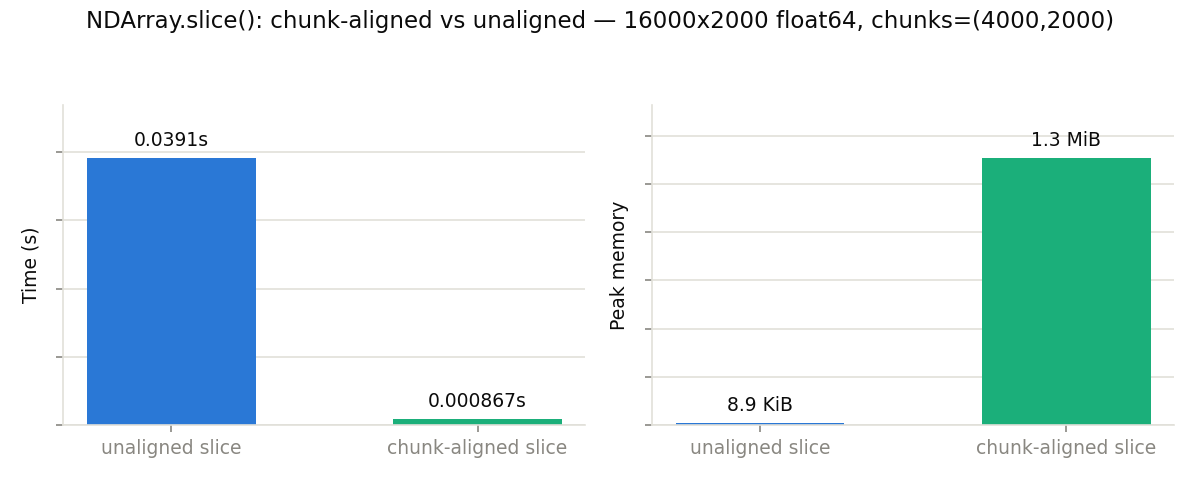
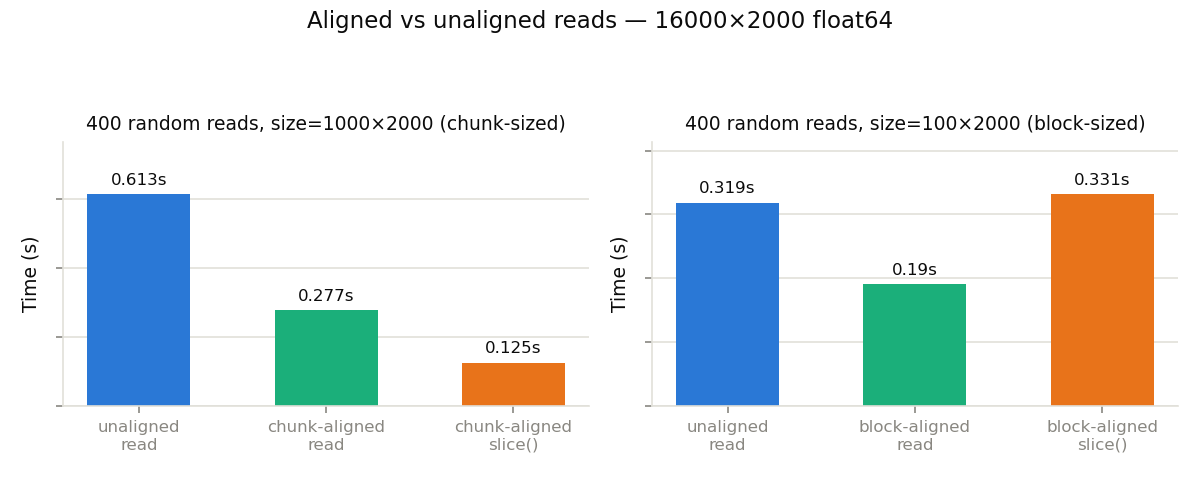
Improve "Align your reads with the double partition" tip
- Rewrite benchmark to show 3 bars per panel: unaligned read, aligned read,
     and slice() — both at chunk and block level
   - Plot titles now include read count and slice size
   - Restructure docs with clear subsection headings, reorder for flow,
     and explain why slice() fast path only works at chunk boundaries

Changed region(s): [[0.0308, 0.2188, 0.9867, 0.9688], [0.0617, 0.0, 0.925, 0.0625], [0.0, 0.4688, 0.0308, 0.6562]]

diff --git a/bench/optim_tips/tip_02_chunk_aligned_slicing.py b/bench/optim_tips/tip_02_chunk_aligned_slicing.py
@@ -5,51 +5,175 @@
 # SPDX-License-Identifier: BSD-3-Clause
 #######################################################################
 
-# Tip 2: NDArray.slice() has a fast path when the slice boundaries land
-# exactly on chunk boundaries — whole chunks are copied without
-# decompressing/recompressing. An off-by-a-few-rows slice falls back to the
-# general (decompress + recompress) path.
+# Tip 2: blosc2's double partition (chunks, subdivided into blocks) rewards
+# aligned reads at both levels:
+#   * A read aligned with the chunk grid decompresses exactly one chunk,
+#     while the same-sized read shifted off-grid straddles two chunks.
+#     An NDArray.slice() aligned with chunk boundaries goes further: it
+#     copies whole chunks as-is, with no decompression at all.
+#   * At the block level, a read aligned with the block grid decompresses
+#     exactly one block.  With auto (cache-sized, small) blocks this is
+#     drowned by per-call overhead, so it is demonstrated on an array with
+#     explicitly larger blocks.  An NDArray.slice() at block granularity
+#     cannot be chunk-aligned on both ends, so it still pays the
+#     decompress/recompress cost.
+#
+# Each panel shows three bars: unaligned read, aligned read, and
+# NDArray.slice() — all the same slice size.
 
+import matplotlib.pyplot as plt
 import numpy as np
 
 import blosc2
-from common import fmt_bytes, measure, save_plot
+from common import COLOR_NAIVE, COLOR_TIP, GRID, INK, MUTED, OUT_DIR, measure
 
 ROWS, COLS = 16_000, 2_000
-CHUNK_ROWS = 4_000  # 4 chunks along axis 0
+K_READS = 400
+BIG_BLOCK_ROWS = 100  # explicit larger blocks for the block panel (1.6 MB each)
 
-# Representative (compressible) data, not incompressible random noise -- blosc2
-# arrays are typically built from data with real structure.
+# Representative (compressible) data, not incompressible random noise.
 _base = np.arange(COLS, dtype=np.float64)
 _data = np.tile(_base, (ROWS, 1)) + np.arange(ROWS, dtype=np.float64)[:, None] * 0.001
-arr = blosc2.asarray(_data, chunks=(CHUNK_ROWS, COLS))
+
+# Panel 1 array: let blosc2 choose the partitions.
+arr = blosc2.asarray(_data)
+CHUNK_ROWS = arr.chunks[0]
+
+# Panel 2 array: explicitly larger blocks so alignment pays off.
+arr_big = blosc2.asarray(_data, chunks=(4 * CHUNK_ROWS, COLS), blocks=(BIG_BLOCK_ROWS, COLS))
+BLOCK_ROWS = arr_big.blocks[0]
+BIG_CHUNK_ROWS = arr_big.chunks[0]  # 4000
+
+# Random start positions — aligned to the respective grid.
+_rng = np.random.default_rng(1)
+_chunk_starts = _rng.integers(0, ROWS // CHUNK_ROWS - 2, size=K_READS) * CHUNK_ROWS
+_block_starts = _rng.integers(0, ROWS // BLOCK_ROWS - 2, size=K_READS) * BLOCK_ROWS
 
 
-def unaligned():
-    # starts 500 rows past a chunk boundary -> general path
-    return arr.slice((slice(500, 500 + 3 * CHUNK_ROWS), slice(None)))
+def read_chunk_unaligned():
+    """Chunk-sized reads shifted half a chunk off the grid."""
+    for s in _chunk_starts:
+        arr[s + CHUNK_ROWS // 2 : s + CHUNK_ROWS // 2 + CHUNK_ROWS]
 
 
-def aligned():
-    # starts and ends exactly on chunk boundaries -> fast path
-    return arr.slice((slice(CHUNK_ROWS, 4 * CHUNK_ROWS), slice(None)))
+def read_chunk_aligned():
+    """Chunk-sized reads starting on chunk boundaries."""
+    for s in _chunk_starts:
+        arr[s : s + CHUNK_ROWS]
+
+
+def slice_chunk_aligned():
+    """Chunk-sized slice() on chunk boundaries → fast path (no decompress)."""
+    for s in _chunk_starts:
+        arr.slice((slice(s, s + CHUNK_ROWS), slice(None)))
+
+
+def read_block_unaligned():
+    """Block-sized reads shifted half a block off the grid."""
+    for s in _block_starts:
+        arr_big[s + BLOCK_ROWS // 2 : s + BLOCK_ROWS // 2 + BLOCK_ROWS]
+
+
+def read_block_aligned():
+    """Block-sized reads starting on block boundaries."""
+    for s in _block_starts:
+        arr_big[s : s + BLOCK_ROWS]
+
+
+def slice_block_aligned():
+    """Block-sized slice() on block boundaries → general path (decompress+recompress).
+
+    The fast path requires *chunk* alignment; at block granularity (100 rows)
+    with chunk size 4000, both boundaries cannot be chunk-aligned, so every
+    slice() call decompresses and recompresses the containing chunk(s).
+    """
+    for s in _block_starts:
+        arr_big.slice((slice(s, s + BLOCK_ROWS), slice(None)))
 
 
 if __name__ == "__main__":
-    naive_t, naive_m = measure(__file__, "unaligned")
-    tip_t, tip_m = measure(__file__, "aligned")
+    print(f"auto partitions: chunks={arr.chunks}, blocks={arr.blocks}")
+    print(f"read-panel array: chunks={arr_big.chunks}, blocks={arr_big.blocks} (explicit)")
 
-    print(f"naive  unaligned slice: {naive_t:.3f}s  peak {fmt_bytes(naive_m)}")
-    print(f"tip    aligned slice  : {tip_t:.3f}s  peak {fmt_bytes(tip_m)}")
-    print(f"speedup: {naive_t / tip_t:.1f}x   (this tip is about speed; memory use is comparable)")
+    chunk_unaligned_t, _ = measure(__file__, "read_chunk_unaligned")
+    chunk_aligned_t, _ = measure(__file__, "read_chunk_aligned")
+    chunk_slice_t, _ = measure(__file__, "slice_chunk_aligned")
+    block_unaligned_t, _ = measure(__file__, "read_block_unaligned")
+    block_aligned_t, _ = measure(__file__, "read_block_aligned")
+    block_slice_t, _ = measure(__file__, "slice_block_aligned")
 
-    save_plot(
-        "tip_02_chunk_aligned_slicing.png",
-        f"NDArray.slice(): chunk-aligned vs unaligned — {ROWS}x{COLS} float64, chunks=({CHUNK_ROWS},{COLS})",
-        "unaligned slice",
-        "chunk-aligned slice",
-        naive_t,
-        tip_t,
-        naive_m,
-        tip_m,
+    print(f"{K_READS} chunk-sized reads, unaligned: {chunk_unaligned_t:.4f}s")
+    print(
+        f"{K_READS} chunk-sized reads, aligned  : {chunk_aligned_t:.4f}s"
+        f"   ({chunk_unaligned_t / chunk_aligned_t:.1f}x faster)"
     )
+    print(
+        f"{K_READS} chunk-sized slice, aligned : {chunk_slice_t:.4f}s"
+        f"   ({chunk_unaligned_t / chunk_slice_t:.1f}x faster than unaligned read)"
+    )
+    print(f"{K_READS} block-sized reads, unaligned: {block_unaligned_t:.4f}s")
+    print(
+        f"{K_READS} block-sized reads, aligned  : {block_aligned_t:.4f}s"
+        f"   ({block_unaligned_t / block_aligned_t:.1f}x faster)"
+    )
+    print(
+        f"{K_READS} block-sized slice, aligned : {block_slice_t:.4f}s"
+        f"   ({block_unaligned_t / block_slice_t:.1f}x vs unaligned read)"
+    )
+
+    COLOR_SLICE = "#e8731a"
+
+    fig, (ax_c, ax_b) = plt.subplots(1, 2, figsize=(8, 3.2))
+    fig.suptitle(
+        f"Aligned vs unaligned reads — {ROWS}×{COLS} float64",
+        fontsize=11,
+        color=INK,
+    )
+
+    chunk_sz = f"{CHUNK_ROWS}×{COLS}"
+    block_sz = f"{BLOCK_ROWS}×{COLS}"
+
+    panels = (
+        (
+            ax_c,
+            f"{K_READS} random reads, size={chunk_sz} (chunk-sized)",
+            ("unaligned\nread", "chunk-aligned\nread", "chunk-aligned\nslice()"),
+            (COLOR_NAIVE, COLOR_TIP, COLOR_SLICE),
+            (chunk_unaligned_t, chunk_aligned_t, chunk_slice_t),
+        ),
+        (
+            ax_b,
+            f"{K_READS} random reads, size={block_sz} (block-sized)",
+            ("unaligned\nread", "block-aligned\nread", "block-aligned\nslice()"),
+            (COLOR_NAIVE, COLOR_TIP, COLOR_SLICE),
+            (block_unaligned_t, block_aligned_t, block_slice_t),
+        ),
+    )
+
+    for ax, title, labels, colors, values in panels:
+        bars = ax.bar(labels, values, color=colors, width=0.55)
+        ax.set_title(title, fontsize=9, color=INK)
+        ax.set_ylabel("Time (s)", color=INK, fontsize=9)
+        ax.spines[["top", "right"]].set_visible(False)
+        ax.spines[["left", "bottom"]].set_color(GRID)
+        ax.tick_params(colors=MUTED, labelsize=8)
+        ax.set_yticklabels([])
+        ax.yaxis.grid(True, color=GRID, linewidth=0.8)
+        ax.set_axisbelow(True)
+        top = max(values)
+        ax.set_ylim(0, top * 1.25)
+        for bar, v in zip(bars, values, strict=True):
+            ax.text(
+                bar.get_x() + bar.get_width() / 2,
+                bar.get_height() + top * 0.03,
+                f"{v:.3g}s",
+                ha="center",
+                va="bottom",
+                fontsize=8,
+                color=INK,
+            )
+
+    fig.tight_layout(rect=[0, 0, 1, 0.90])
+    out_path = OUT_DIR / "tip_02_chunk_aligned_slicing.png"
+    fig.savefig(out_path, dpi=150)
+    print(f"plot saved to {out_path}")

diff --git a/doc/guides/optimization_tips.md b/doc/guides/optimization_tips.md
@@ -23,25 +23,53 @@ At 200M float64 elements, the two are comparable in speed, but the real win is m
 
 *Benchmark for this tip: [`tip_01_constructors.py`](https://github.com/Blosc/python-blosc2/blob/main/bench/optim_tips/tip_01_constructors.py)*
 
-## Align slices with the chunk grid
+## Align your reads with the double partition
 
-`NDArray.slice()` has a fast path when a slice's boundaries land exactly on chunk boundaries: whole chunks are copied as-is, with no decompress/recompress. A slice that starts or ends mid-chunk falls back to the general path.
+blosc2 arrays are partitioned twice: the array is split into **chunks** (the unit of storage and compression), and each chunk is subdivided into **blocks** (the unit of decompression, sized to fit CPU caches). A read that lands exactly on a partition boundary decompresses only the chunk or block it needs, while the same-sized read shifted off-grid straddles (and decompresses) extra ones.
+
+You don't have to pick the partitions yourself: let blosc2 choose them, then read them back from `arr.chunks` and `arr.blocks` to place your slice boundaries.
+
+### At the chunk level
+
+`NDArray.slice()` has a fast path when *both* boundaries land on chunk boundaries: whole chunks are copied as-is, compressed, with no decompression at all. Regular reads also benefit — an aligned chunk-sized read decompresses one chunk instead of two.
 
 ```python
-arr = blosc2.asarray(data, chunks=(4000, 2000))
+arr = blosc2.asarray(data)  # let blosc2 pick the partitions
+ch = arr.chunks[0]  # e.g. 1000 for a 16000×2000 float64 array
 
-# Avoid: mid-chunk boundaries force decompress + recompress
-arr.slice((slice(500, 12500), slice(None)))
+# Avoid: a chunk-sized read straddling two chunks → decompresses both
+arr[ch // 2 : ch // 2 + ch, :]
 
-# Prefer: boundaries match the chunk grid -> whole chunks copied as-is
-arr.slice((slice(4000, 16000), slice(None)))
+# Aligned read: on the chunk grid → decompresses exactly one chunk
+arr[ch : 2 * ch, :]
+
+# Even better: slice() on chunk boundaries → copies chunks as-is, no decompress
+arr.slice((slice(ch, 2 * ch), slice(None)))
 ```
 
-![NDArray.slice(): chunk-aligned vs unaligned](optim_tips/tip_02_chunk_aligned_slicing.png)
+### At the block level
 
-The aligned slice was **~45x faster** on a 16000x2000 float64 array. (Ignore the memory panel for this one: the fast path's footprint — just the compressed chunks passing through — happens to be visible to our measurement, while the general path's much larger decompression scratch lives in C buffers the measurement cannot see. The aligned path actually moves *less* memory around, not more.)
+The same alignment principle applies at the block level: a block-aligned read decompresses exactly the blocks it needs. With auto-chosen blocks this effect is small — blocks are tiny by design — but if you configure larger blocks (say, for better compression ratios), keeping reads on the block grid pays off.
 
-If you control chunk sizes, pick slice boundaries — or a `chunks=` shape — that line up with how you plan to read the array.
+The `slice()` fast path, however, does *not* apply here: it only works at chunk boundaries, so `slice()` of a block-sized region still decompresses and recompresses:
+
+```python
+big = blosc2.asarray(data, chunks=(4000, 2000), blocks=(100, 2000))
+bl = big.blocks[0]
+
+# Avoid: a block-sized read straddling two blocks → decompresses both
+big[bl // 2 : bl // 2 + bl, :]
+
+# Aligned read: on the block grid → decompresses exactly one block
+big[bl : 2 * bl, :]
+
+# slice() at block granularity → still decompresses + recompresses the chunk
+big.slice((slice(bl, 2 * bl), slice(None)))
+```
+
+![Aligned vs unaligned reads, chunk and block level](optim_tips/tip_02_chunk_aligned_slicing.png)
+
+On a 16000×2000 float64 array, 400 chunk-sized reads aligned with the chunk grid were **~2.2× faster** than the same reads shifted half a chunk off-grid, and a chunk-aligned `slice()` was **~4.9× faster** still (no decompression). At the block level (with larger 1.6 MB blocks), 400 block-sized reads aligned with the block grid were **~1.7× faster**. However, `slice()` at block granularity was no faster at all — `slice()` has to produce a valid compressed array with its own chunk layout, so it can only skip decompression when both boundaries land on *chunk* boundaries; at block granularity it still decompresses and recompresses.
 
 *Benchmark for this tip: [`tip_02_chunk_aligned_slicing.py`](https://github.com/Blosc/python-blosc2/blob/main/bench/optim_tips/tip_02_chunk_aligned_slicing.py)*
 